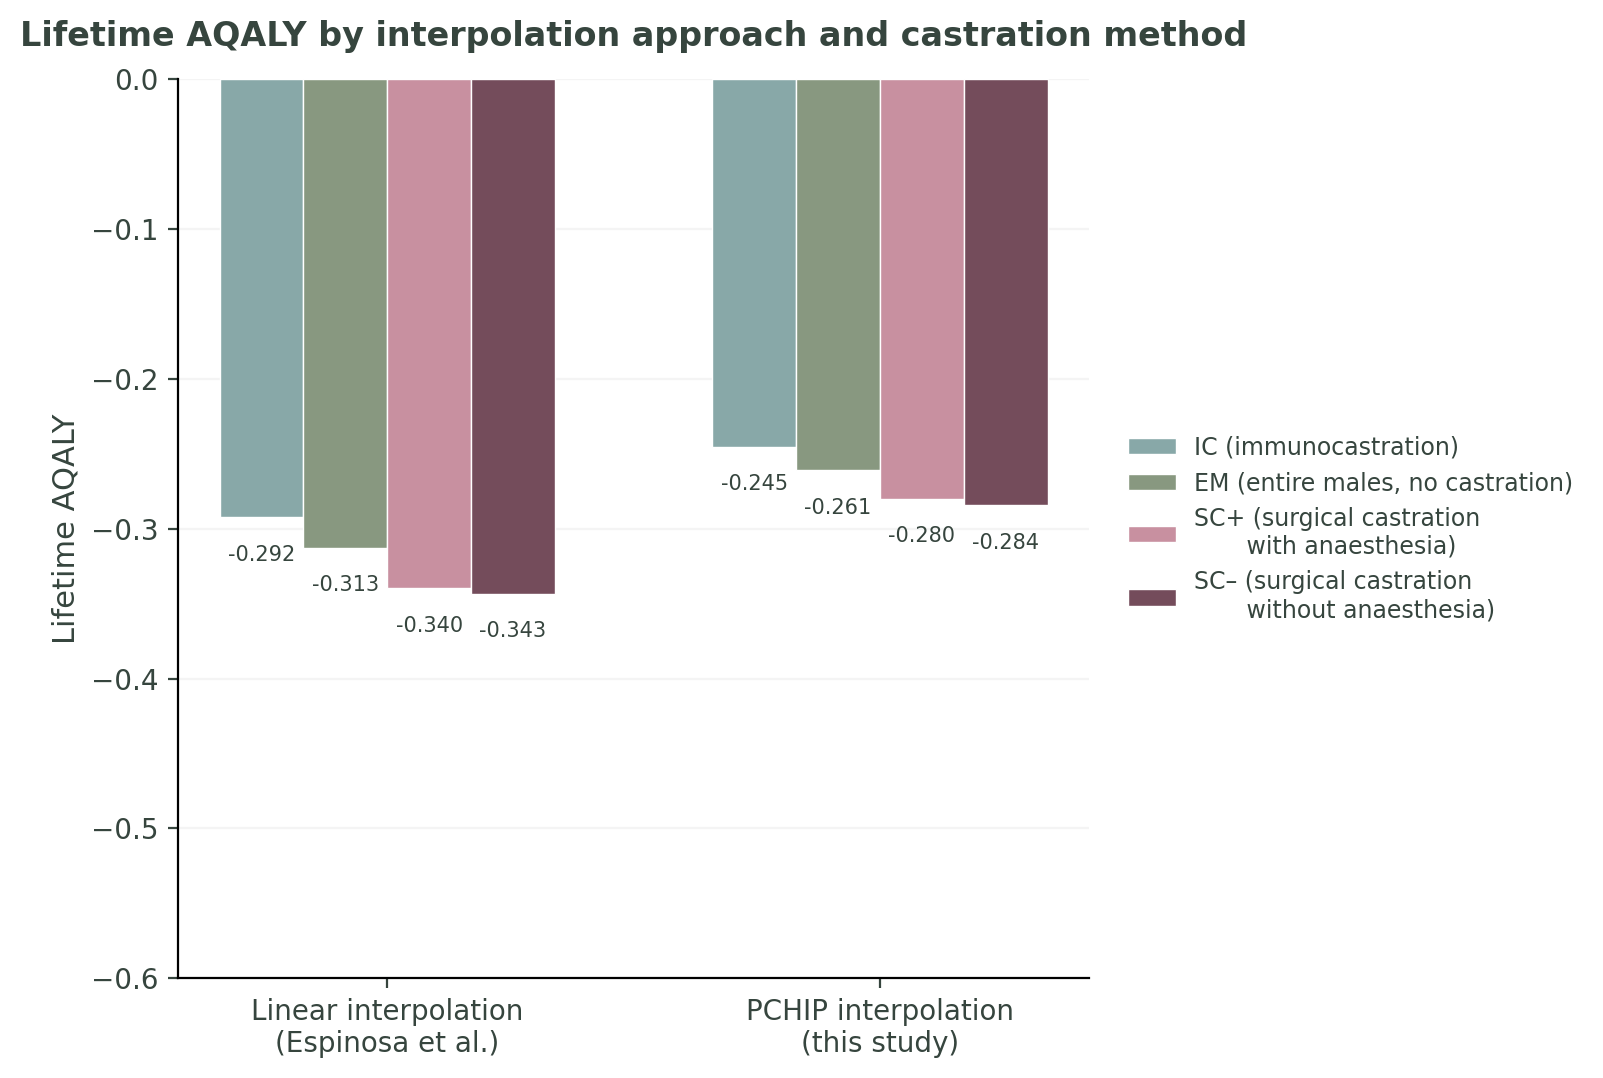
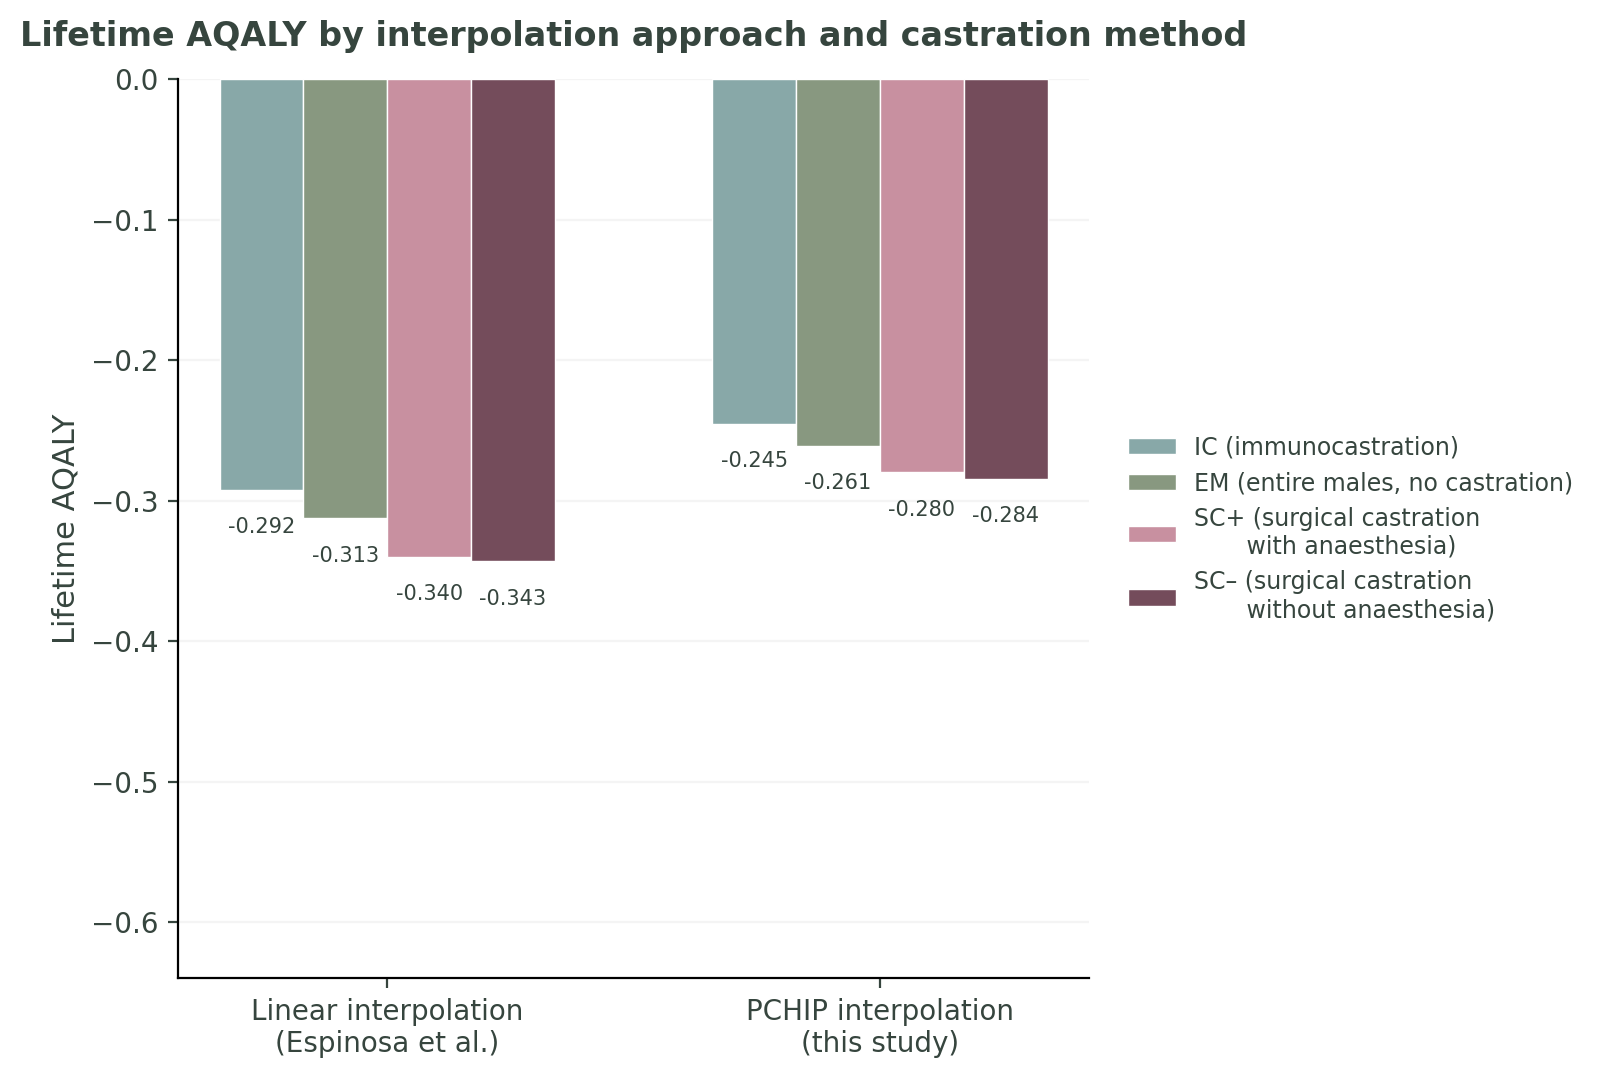
Revise figure scales and rename RP moral weight label
- Lifetime AQALY y-axis: 0 to -0.64
- Neuron-count panel: starts at -20
- RP panel: starts at -400
- "Rethink Priorities pluralist" -> "welfare range-based"

diff --git a/index.html b/index.html
@@ -333,11 +333,11 @@
 
 <h2>5. Moral weight sensitivity: combined economic and welfare advantage</h2>
 
-<p>To monetise welfare differences, we multiply the AQALY gain by a moral weight parameter and a human Quality-Adjusted Life Year benchmark (EUR&nbsp;147,000, OECD/EU). We test two moral weight values: a cortical-neuron ratio (1/44&nbsp;=&nbsp;0.023, conservative) and the Rethink Priorities pluralist estimate (0.515, conditional on hedonism). The figure below shows the combined economic and welfare advantage of each method relative to SC+ (the Belgian status quo), per pig sold (accounting for 50% male proportion).</p>
+<p>To monetise welfare differences, we multiply the AQALY gain by a moral weight parameter and a human Quality-Adjusted Life Year benchmark (EUR&nbsp;147,000, OECD/EU). We test two moral weight values: a cortical-neuron ratio (1/44&nbsp;=&nbsp;0.023, conservative) and the Rethink Priorities welfare range-based estimate (0.515, conditional on hedonism). The figure below shows the combined economic and welfare advantage of each method relative to SC+ (the Belgian status quo), per pig sold (accounting for 50% male proportion).</p>
 
 <div class="figure-container">
   <img src="fig_moral_weight_sensitivity.png" alt="Combined economic and welfare advantage vs SC+ under two moral weight parameters">
-  <p class="figure-caption"><strong>Figure 3.</strong> Combined economic and welfare advantage of each castration method relative to surgical castration with anaesthesia (SC+), per pig sold. Panel A uses the neuron-count basis (1/44); Panel B uses the Rethink Priorities pluralist estimate (0.515). Economic advantages (green) are from the Phase 1 cost comparison; welfare advantages (teal) are derived from AQALY differences. Rankings are preserved under both moral weights: IC first, EM second, SC&minus; last. Under the RP estimate, the welfare component dominates entirely.</p>
+  <p class="figure-caption"><strong>Figure 3.</strong> Combined economic and welfare advantage of each castration method relative to surgical castration with anaesthesia (SC+), per pig sold. Panel A uses the neuron-count basis (1/44); Panel B uses the Rethink Priorities welfare range-based estimate (0.515). Economic advantages (green) are from the Phase 1 cost comparison; welfare advantages (teal) are derived from AQALY differences. Rankings are preserved under both moral weights: IC first, EM second, SC&minus; last. Under the RP estimate, the welfare component dominates entirely.</p>
 </div>
 
 
